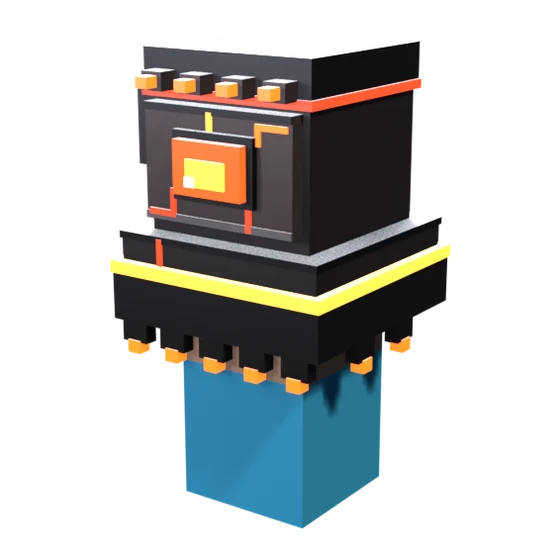
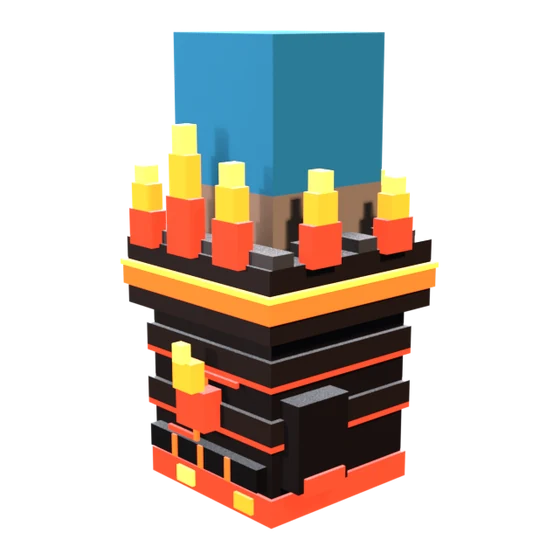
Feature cards: new pictures, and the burning Ember gauntlet
The user asked for better pictures than the crown, pickaxe, chest and name tag, and the gauntlet on
Something every day: a palette with the launcher's theme colours as its paint (Made to look good), a
glowing bolt (Fast), an arrow dropping into a tray (Mods in one click), a player's head in our classic
skin (Your real account) and the Ember gauntlet (Something every day) - pixel art drawn in
render-cosmetics.py's ART, a head built there, rendered with less tilt so the shapes read, and shown
whole in their cards. The Ember gauntlet's pictures are the redesign (charred and burning, no stones),
arm hanging so the flames rise.

diff --git a/app/page.tsx b/app/page.tsx
@@ -94,20 +94,21 @@ const PROFILE_MODS = [
 ];
 
 /**
- * The feature cards, after Pulse Visuals' grid: one thing each, with a picture of our own - a voxel icon
- * from the launcher's reward art, or a cosmetic the client ships - rendered by scripts/render-cosmetics.py
+ * The feature cards, after Pulse Visuals' grid: one thing each, with a picture of our own - pixel art drawn
+ * for them (a palette in the launcher's theme colours, a bolt, an install arrow), a player's head, or a
+ * cosmetic the client ships - rendered by scripts/render-cosmetics.py
  * (the skies are the client's own screenshot). Grey until pointed at; the first is lit.
  */
 const FEATURE_CARDS: { title: string; text: string; image: string; href?: string; sky?: boolean; wide?: boolean }[] = [
   {
     title: "Made to look good",
     text: `A clean Right Shift menu, ${THEME_PRESETS.length} colour schemes or any colour you like, and a HUD you arrange by dragging.`,
-    image: "/features/crown.webp",
+    image: "/features/palette.webp",
   },
   {
     title: "Fast from the first launch",
     text: `${PREINSTALLED_MODS.join(", ").replace(/, ([^,]*)$/, " and $1")} come installed and stay on their newest build - the speed mods, without hunting for them.`,
-    image: "/features/pickaxe.webp",
+    image: "/features/bolt.webp",
   },
   {
     title: "Made for PvP",
@@ -117,7 +118,7 @@ const FEATURE_CARDS: { title: string; text: string; image: string; href?: string
   {
     title: "Mods in one click",
     text: "Search Modrinth and CurseForge from the launcher. The mods a mod needs come with it, every file checked.",
-    image: "/features/chest.webp",
+    image: "/features/install.webp",
   },
   {
     title: "Wings you can wear",
@@ -135,13 +136,13 @@ const FEATURE_CARDS: { title: string; text: string; image: string; href?: string
   {
     title: "Your real account",
     text: "Sign in with Microsoft and play as yourself - your name, your skin, online servers.",
-    image: "/features/name-tag.webp",
+    image: "/features/head.webp",
     href: "#sign-in",
   },
   {
     title: "Something every day",
     text: `A daily reward card, a ${SEASON.levels}-level battle pass and redeem codes - coins and cosmetics for playing.`,
-    image: "/features/present.webp",
+    image: "/features/ember-gauntlet.webp",
     href: "/battle-pass",
   },
   {

diff --git a/app/home.module.css b/app/home.module.css
@@ -1509,11 +1509,11 @@ a.featureCard:hover {
 }
 .cardImage {
   position: absolute;
-  right: -1.25rem;
-  bottom: -2.25rem;
+  right: 0.25rem;
+  bottom: -0.5rem;
   z-index: 1;
-  width: 56%;
-  height: 70%;
+  width: 52%;
+  height: 60%;
   object-fit: contain;
   object-position: right bottom;
   filter: grayscale(1) brightness(0.7) contrast(1.05);

diff --git a/scripts/render-cosmetics.py b/scripts/render-cosmetics.py
@@ -4,7 +4,9 @@ The site's still pictures of Catalyst's cosmetics and pixel icons, rendered in B
     blender -b --factory-startup --python scripts/render-cosmetics.py -- <job> <out.png> [size]
 
 Jobs:
-    sprite:<NAME>          a 16x16 icon from lib/sprites.ts, built from voxels (CROWN, PICKAXE, CHEST...)
+    sprite:<NAME>          a 16x16 icon from lib/sprites.ts, built from voxels (CROWN, PICKAXE, CHEST...), or
+                           one of this script's own ART (BOLT, INSTALL, PALETTE)
+    head                   a player's head in our classic skin
     box:<model>[:<pose>]   a box model the client draws (its assets/visuals/cosmetics/<model>.json):
                            a gauntlet (gauntlet, arcane_gauntlet, ember_gauntlet; pose "fist" raises it),
                            a hat (ember_hat, on a plain head) or stoneheart_wings
@@ -223,17 +225,85 @@ def read_sprites():
     return palette, sprites
 
 
+# Pixel art for the home page's feature cards, our own: drawn here, extruded like the reward icons. A pixel
+# whose letter is in GLOW is lit from within.
+ART = {
+    "BOLT": ({"k": "#3A2A08", "W": "#FFF6D8", "Y": "#FFD24A", "O": "#FF9A2E"}, "WYO", [
+        "..........kkkk..",
+        ".........kWYYk..",
+        "........kWYYk...",
+        ".......kWYYk....",
+        "......kWYYk.....",
+        ".....kWYYk......",
+        "....kWYYYkkkkk..",
+        "...kWYYYYYYYYk..",
+        "..kkkkkkYYYYk...",
+        ".......kYYOk....",
+        "......kYYOk.....",
+        ".....kYYOk......",
+        "....kYOOk.......",
+        "...kYOk.........",
+        "..kOk...........",
+        "..kk............",
+    ]),
+    # Mods in one click: a download arrow dropping into a tray.
+    "INSTALL": ({"k": "#0C2A2A", "L": "#9BF0E6", "T": "#37D3C4", "D": "#1E9AA1"}, "", [
+        "................",
+        "......kkkk......",
+        "......kLTk......",
+        "......kLTk......",
+        "......kLTk......",
+        "...kkkkLTkkkk...",
+        "...kLLLTTTTDk...",
+        "....kLTTTTDk....",
+        ".....kLTTDk.....",
+        "......kLDk......",
+        ".......kk.......",
+        "..kk........kk..",
+        "..kTk......kTk..",
+        "..kTTkkkkkkTTk..",
+        "..kDDDDDDDDDDk..",
+        "..kkkkkkkkkkkk..",
+    ]),
+    # The paint is the launcher's colour schemes: Default's sky blue, Amethyst, Cherry, Redstone, Emerald, Copper.
+    "PALETTE": ({"k": "#3A240E", "B": "#C8925A", "b": "#9A6A3A", "1": "#2FABF5", "2": "#B888FA", "3": "#FA86B6",
+                 "4": "#F65754", "5": "#3BD68E", "6": "#F18E4C"}, "", [
+        "................",
+        "....kkkkkkk.....",
+        "..kkBBBBBBBkk...",
+        ".kB11BBB22BBBk..",
+        "kBB11BBB22BB33k.",
+        "kBBBBBBBBBBB33k.",
+        "kBkkBBBBBBBBBBk.",
+        "kk..kBB66BB44k..",
+        "kk..kBB66BB44k..",
+        "kBkkBBBBBBBBk...",
+        "kBBBBB55BBBk....",
+        ".kBBBB55BBk.....",
+        "..kkbbbbbk......",
+        "....kkkkk.......",
+        "................",
+        "................",
+    ]),
+}
+
+
 def build_sprite(name, depth=1.0):
     """The icon as voxels, one per pixel, a pixel deep: only the faces that show are built."""
-    palette, sprites = read_sprites()
-    rows = sprites[name]
+    glow_letters = ""
+    if name in ART:
+        palette, glow_letters, rows = ART[name]
+    else:
+        palette, sprites = read_sprites()
+        rows = sprites[name]
     filled = {(x, y) for y, row in enumerate(rows) for x, ch in enumerate(row) if ch != "."}
-    faces, colours = [], []
+    plain, glow = ([], []), ([], [])
     for y, row in enumerate(rows):
         for x, ch in enumerate(row):
             if ch == ".":
                 continue
             colour = hex_rgba(palette[ch])
+            target = glow if ch in glow_letters else plain
             X, Z = x, 15 - y  # up is +Z
             sides = box_faces(X, 0, Z, X + 1, depth, Z + 1)
             show = [
@@ -246,17 +316,21 @@ def build_sprite(name, depth=1.0):
             ]
             for quad, visible in zip(sides, show):
                 if visible:
-                    faces.append(quad)
+                    target[0].append(quad)
                     # The back and the bevelled sides a touch darker, as an extruded sprite is.
                     k = 1.0 if quad is sides[2] else 0.86
-                    colours.append((colour[0] * k, colour[1] * k, colour[2] * k, 1.0))
-    mat = vertex_colour_material("Sprite", roughness=0.42)
-    obj = mesh_object(name, faces, colours, mat, bevel=0.06)
-    obj.location = (-8, -depth / 2, -8)
+                    target[1].append((colour[0] * k, colour[1] * k, colour[2] * k, 1.0))
     pivot = bpy.data.objects.new("Pivot", None)
     bpy.context.scene.collection.objects.link(pivot)
-    obj.parent = pivot
-    return pivot, [obj]
+    made = []
+    for (faces, colours), mat in ((plain, vertex_colour_material("Sprite", roughness=0.42)),
+                                  (glow, vertex_colour_material("SpriteGlow", roughness=0.3, emission=1.6))):
+        if faces:
+            obj = mesh_object(name, faces, colours, mat, bevel=0.06)
+            obj.location = (-8, -depth / 2, -8)
+            obj.parent = pivot
+            made.append(obj)
+    return pivot, made
 
 
 # --- box models (the client's gauntlets and Stoneheart Wings) ------------------------------------------------
@@ -353,6 +427,50 @@ def build_hat(model):
     return space, objects
 
 
+def build_head():
+    """A player's head, 8 voxels a side, in our classic skin (components/three/textures.ts makeClassicSkin):
+    brown hair, blue eyes. Blender space: Z up, the face towards -Y."""
+    hair, hair_light, skin, shade, light = "#4A3222", "#5E412D", "#C99670", "#B27F5A", "#D9A983"
+    face = [
+        "HHHHHHHH",
+        "HHHHHHHH",
+        "HLLLLLLH",
+        "SBBSSBBS",
+        "SWESSEWS",
+        "SSSSSSSS",
+        "SSSMMSSS",
+        "DDDDDDDD",
+    ]
+    colours_of = {"H": hair, "L": light, "S": skin, "B": hair, "W": "#F4F7FB", "E": "#4B6FB0", "M": "#8E5B41", "D": shade}
+    faces, colours = [], []
+
+    def quad(points, colour):
+        faces.append(points)
+        colours.append(hex_rgba(colour))
+
+    for i in range(8):
+        for j in range(8):
+            # front (-Y): row j from the top
+            quad([(i, 0, 7 - j), (i + 1, 0, 7 - j), (i + 1, 0, 8 - j), (i, 0, 8 - j)], colours_of[face[j][i]])
+            # top (+Z): hair, a little lighter
+            quad([(i, j, 8), (i + 1, j, 8), (i + 1, j + 1, 8), (i, j + 1, 8)], hair_light if (i * 7 + j * 3) % 5 == 0 else hair)
+            # back (+Y): hair down to the neck
+            quad([(i, 8, 7 - j), (i, 8, 8 - j), (i + 1, 8, 8 - j), (i + 1, 8, 7 - j)], hair if j < 6 else shade)
+            # sides: hair over the top and the back, skin at the front below the temple
+            side = hair if (j < 2 or i > 4 or (j < 4 and i > 2)) else skin
+            quad([(0, i, 7 - j), (0, i, 8 - j), (0, i + 1, 8 - j), (0, i + 1, 7 - j)], side)
+            quad([(8, i, 7 - j), (8, i + 1, 7 - j), (8, i + 1, 8 - j), (8, i, 8 - j)], side)
+    for i in range(8):
+        for j in range(8):
+            quad([(i, j, 0), (i, j + 1, 0), (i + 1, j + 1, 0), (i + 1, j, 0)], shade)
+    obj = mesh_object("Head", faces, colours, vertex_colour_material("Skin", roughness=0.8))
+    obj.location = (-4, -4, -4)
+    pivot = bpy.data.objects.new("Pivot", None)
+    bpy.context.scene.collection.objects.link(pivot)
+    obj.parent = pivot
+    return pivot, [obj]
+
+
 def build_stone_wings(model="stoneheart_wings"):
     """StoneWings.java at rest, standing still: each side swung back by its idle, blades at their angles."""
     data = json.load(open(os.path.join(CLIENT, model + ".json"), encoding="utf-8"))
@@ -415,10 +533,16 @@ def main():
     kind, _, rest = job.partition(":")
     name, _, pose = rest.partition(":")
 
-    if kind == "sprite":
+    if kind == "head":
+        pivot, objects = build_head()
+        pivot.rotation_euler = (0, 0, math.radians(-28))
+        view, centre, radius = frame(objects, (0.25, -1.0, 0.45), lens=60, fill=0.9)
+    elif kind == "sprite":
         pivot, objects = build_sprite(name)
-        # Held the way Minecraft shows an item: tipped corner to corner, turned towards the light.
-        pivot.rotation_euler = (math.radians(12), math.radians(-28), math.radians(-35))
+        # Held the way Minecraft shows an item: tipped corner to corner, turned towards the light. The cards'
+        # own art turns less, so its shape reads.
+        pivot.rotation_euler = (math.radians(8), math.radians(-14), math.radians(-12)) if name in ART \
+            else (math.radians(12), math.radians(-28), math.radians(-35))
         view, centre, radius = frame(objects, (0.35, -1.0, 0.25), lens=70, fill=0.92)
     elif kind == "box" and name.endswith("hat"):
         _, objects = build_hat(name)
